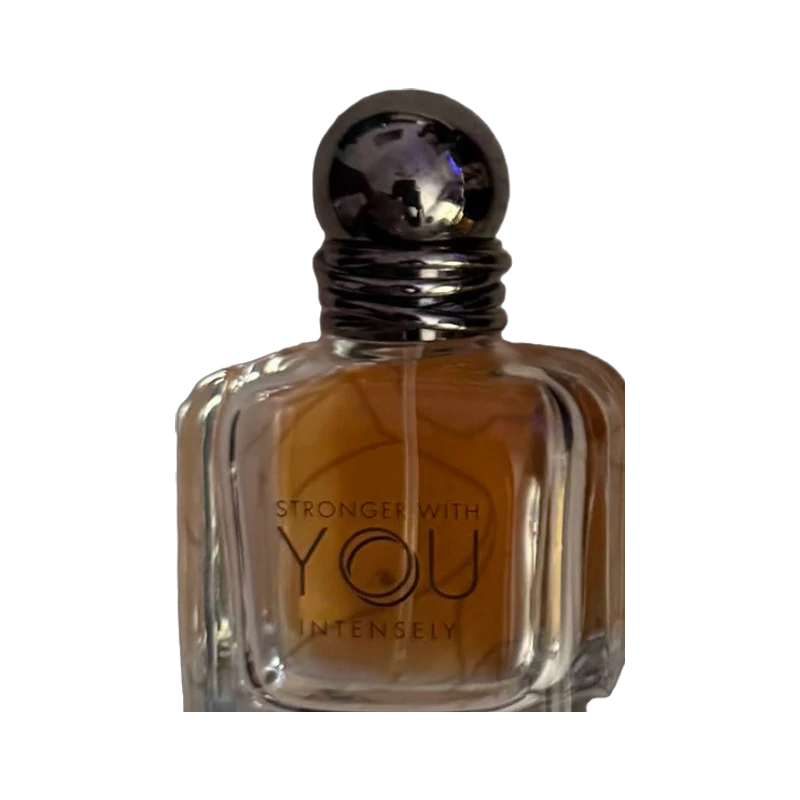
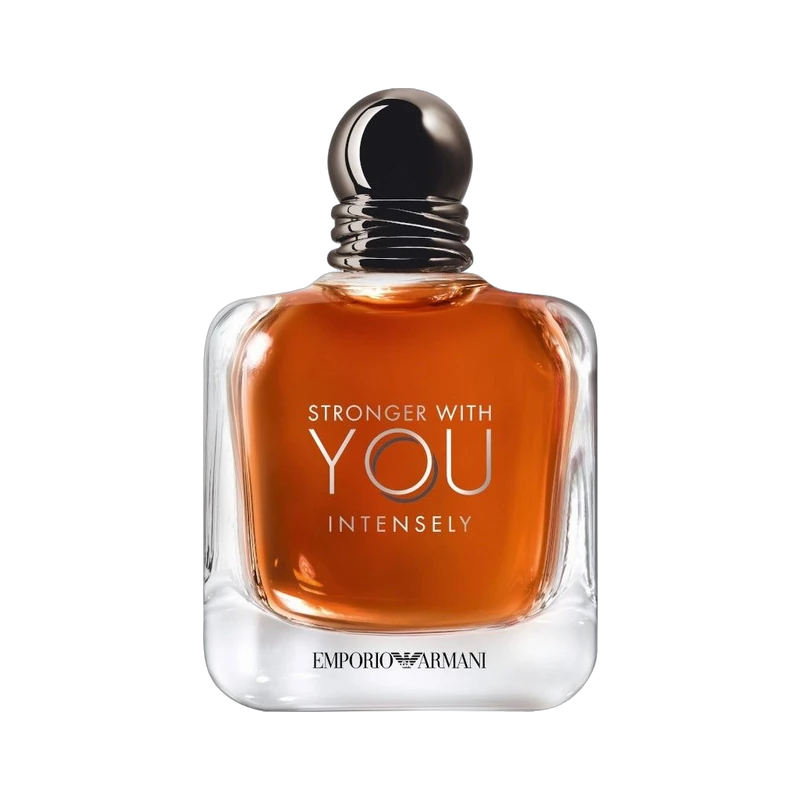
feat(collections): real product photography, and a plate that is finally uniform
SHOES. Six of seven laterals replaced with StockX product shots: one shoe,
outer side, same direction, same framing, cut on white. The plate was
previously three shoes pointing one way, three the other, and two pairs —
all labelled 'lateral'. It now reads as one set. The two products with a
360 turntable also gained a medial.

The seventh, the Air Max SC, keeps only its top-down shot: no source
catalogues a 'White / Sea Green' Air Max SC, and the research file already
said so. Its compartment shows the name in type rather than a guess.

PERFUMES. Eight bottles now come from Fragrantica's press imagery instead
of the owner's flat-lays, which is what was asked for. The other five stay
his: Beardo and The Man Company publish only marketing art — models,
backgrounds, 'SMELL LIKE POWER' set in red — and there is no clean product
cut-out of Black Musk, Origin or Infinite anywhere online. A photograph he
took on a bedsheet, cut out and framed like everything else, beats a
banner. Where no online image exists, saying so beats pretending.

I got this wrong once on the way: fimgs.net/himg/ is Fragrantica's
USER-PHOTO namespace, not the product one, and the same ids resolve there
to entirely different pictures. Seven bottles briefly became a flamingo
ornament, a stranger's face and a Coach gift set. Caught by looking at the
contact sheet, which is the reason that tool exists.

A side benefit: the Asad press shot confirms the identification made
[…]

diff --git a/lib/collections/shoes.ts b/lib/collections/shoes.ts
@@ -53,7 +53,7 @@ export const shoes: Shoe[] = [
         name: "Adimatic Mid YNuK",
         brand: "Crude From Portugal × Adidas",
         price: { amount: 15016, currency: "INR" },
-        shots: ["lateral"],
+        shots: ["lateral", "medial"],
         colourway: "YNuK",
     },
     {
@@ -62,7 +62,7 @@ export const shoes: Shoe[] = [
         name: "Superstar 2",
         brand: "Adidas",
         price: { amount: 11999, currency: "INR" },
-        shots: ["lateral"],
+        shots: ["lateral", "medial"],
         colourway: "Core Black / Matte Silver / Cloud White",
     },
     {
